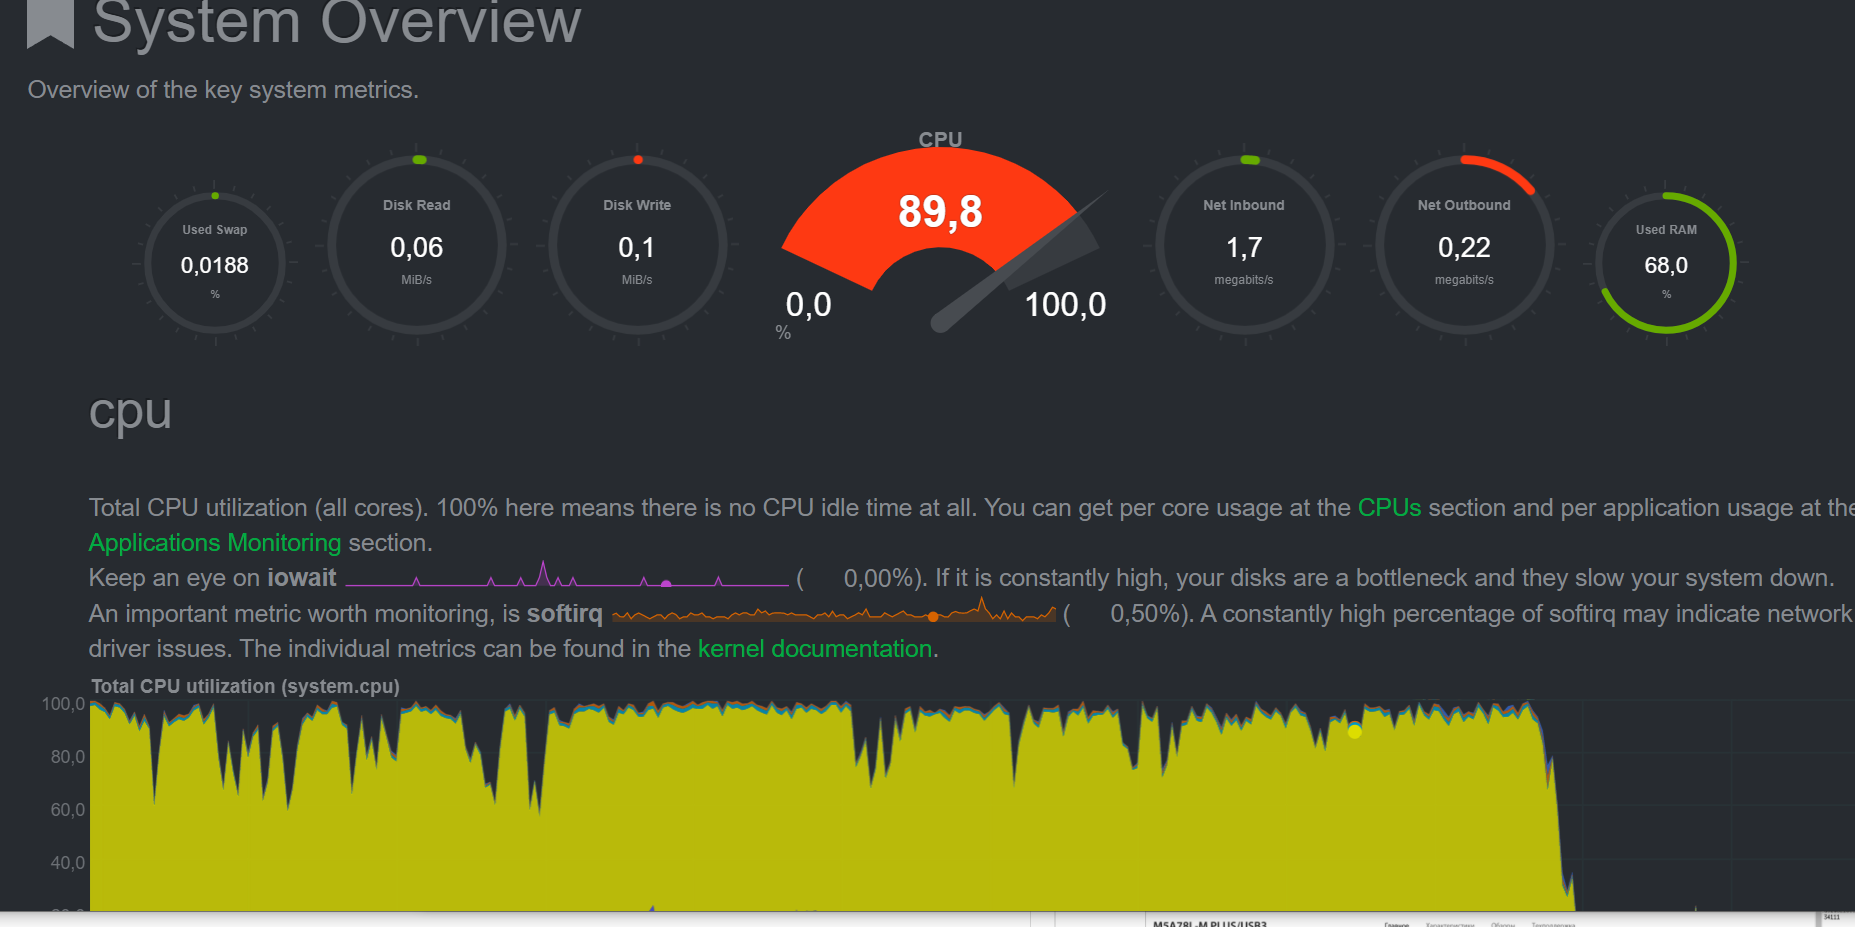
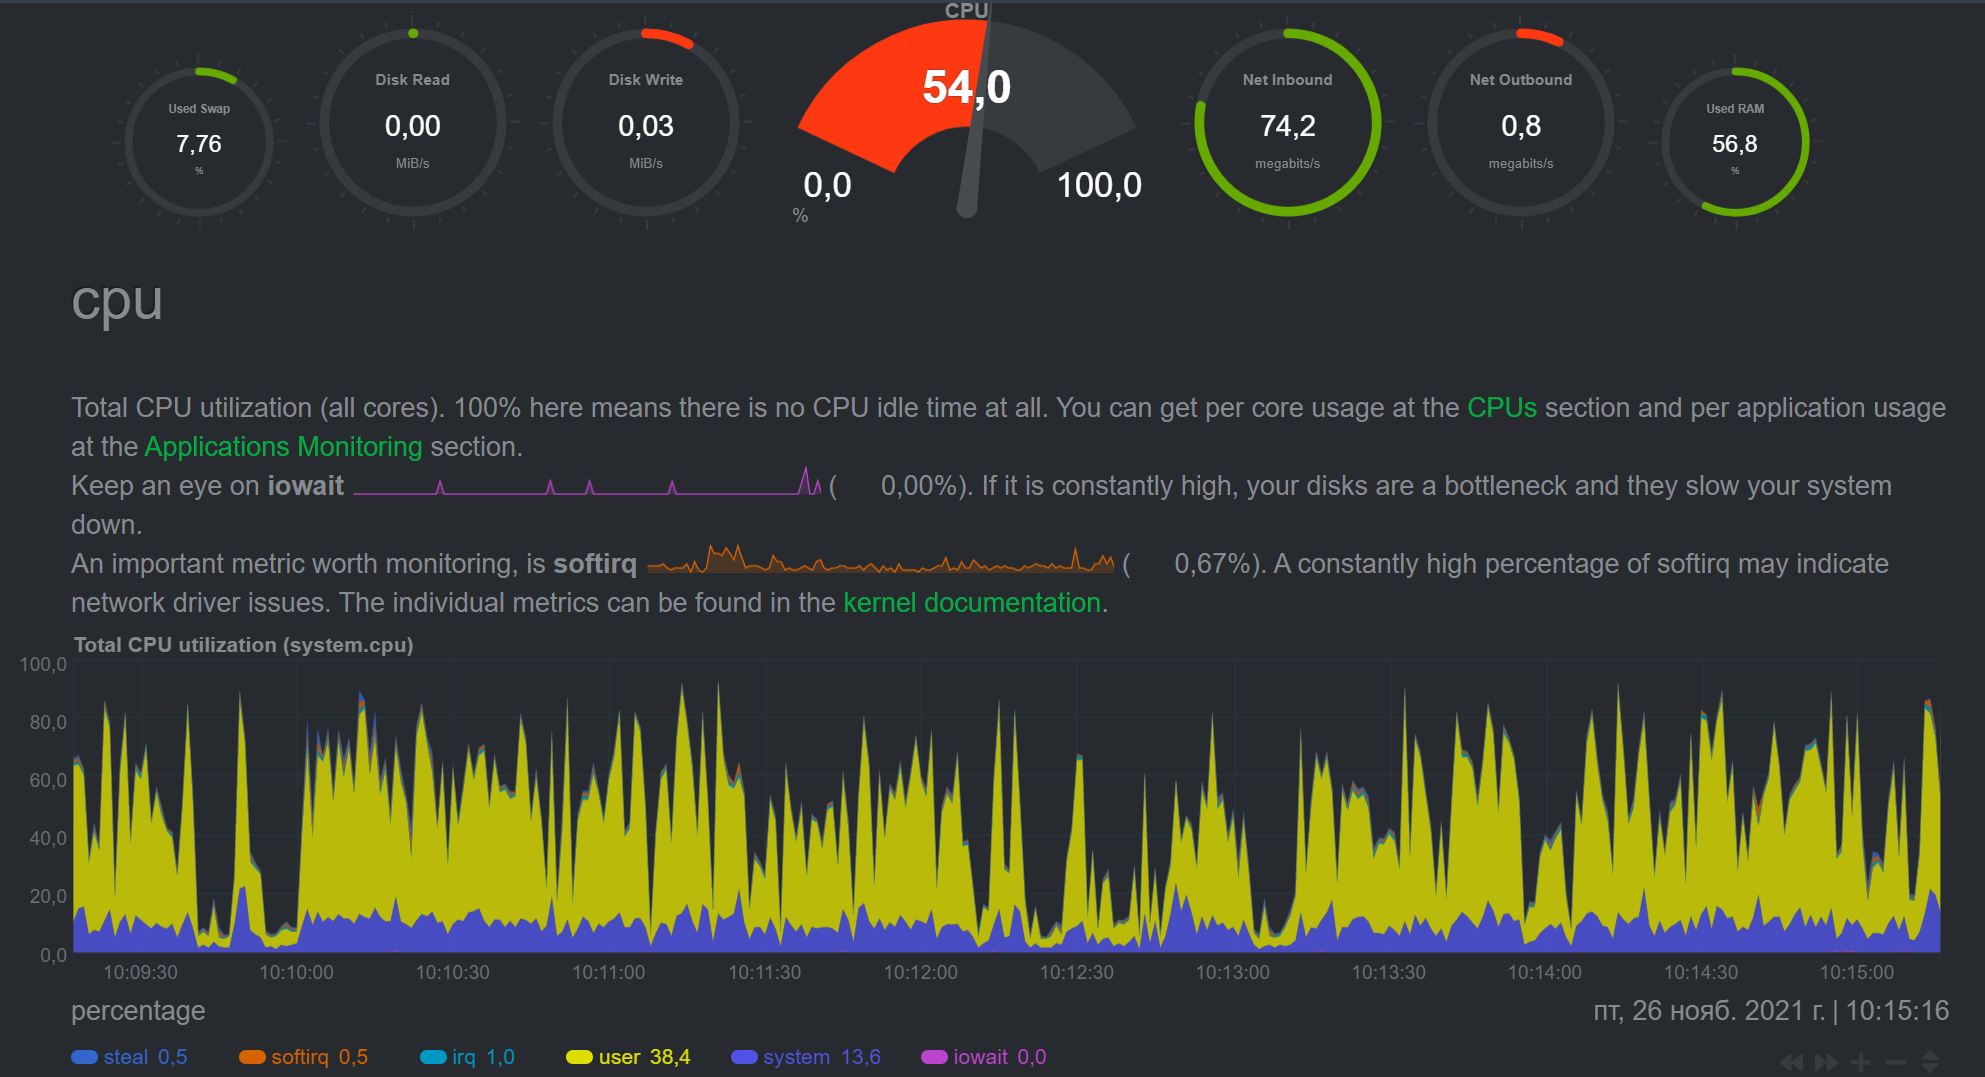
Обновил README.md.

diff --git a/README.md b/README.md
@@ -56,9 +56,10 @@ Asp net.core 5 приложение.<br>
 2,6с. При работе двух браузеров время составляет 1,75с.
 </p>
 <p align="left">
-Нагрузка VPS при работе двух браузеров.Используется Netdata.
+Нагрузка VPS при работе одного браузера.Используется Netdata.
 Характеристики VPS-2CPU,4Гб RAM.
 <img src="./readme_assets/load.png" width="100%">
+<img src="./readme_assets/load1.png" width="100%">
 </p>
 <p align="left">
 Пример мониторинга работы браузера Chrome с использование VNC и запущенного теста на VPS:
@@ -69,11 +70,33 @@ Asp net.core 5 приложение.<br>
 Workstation 16 Pro(1ядро 2 потока, 4гб памяти). При запуске 4-х браузеров, максимальное количество используемой памяти 1.8Гб.
 
  Ведется тестирование на VPS.
+<p align="left">
+При разработке сервиса возник ряд проблемм с браузерами.<br>
+Браузер Chrome 95 версии(а так же Edge), теряет связь с драйвером после обработки некоторых сайтов. Причина не установлена. Больше не используется.<br>
+Браузер firefox постепенно заполняет весь swap системы. Это приводит к остановке сервиса.<br>
+Заполнение swap происходит из-за открытия вкладок(или то что браузер счетает ими). Визуально(если сделать скрин шот) новых вкладок почти ни когда не видно.<br>
+Дополнения ublock,pupup blocked unlimite,addblock не решают данную проблемму. Закрытие окон после каждой операции и остановка выполнения скриптов лишь заметляет засорение swap.
+<p align="left">
+На рисунке показано поведение браузера с установленным расширением AddBlock. Видно как браузер открыл 17вкладок.
+<img src="./readme_assets/openWindows.jpg" width="100%">
+</p>   
+</p>
+Для решения проблеммы переполнения swap был реализован механизм мониторинга, и перезапуска браузера при привышении лимита в 50Мб.<br>
+Пики на рисунке приходятся на перезапуск браузера по превышению лимита swap. 
+<img src="./readme_assets/swapreboot.png" width="100%">
+
+Но это до конца не решило проблемму. В некоторых случаях браузер может заполнить 1Гб swap за 30сек(мониторинг ведеться каждые 30сек).
+<img src="./readme_assets/serviceBroken.jpg" width="100%">
+<p align="left">
+Был добавлен механизм аварийного остановки браузера.
+</p>
+<p align="left">
+Минимальная стабильная версия браузера Firefox,для работы с Selenium.WebDriver.GeckoDriver 0.30.0.1 -80.0. Драйвер ниже версии не умеет настраивать параметры профиля. Браузеры ниже версий после нескольких часов работы перестают работать.
+<img src="./readme_assets/dropfox.jpg" width="100%">
+</p>
 
 <p align="left">
 <b>
- Внимание!<br>
- Взаимодействие с браузером имеет очень много подводных камней.
 Это закрытый проект. Исходные коды предоставлены исключительно для ознакомительных целей!
 </b>
 </p>
